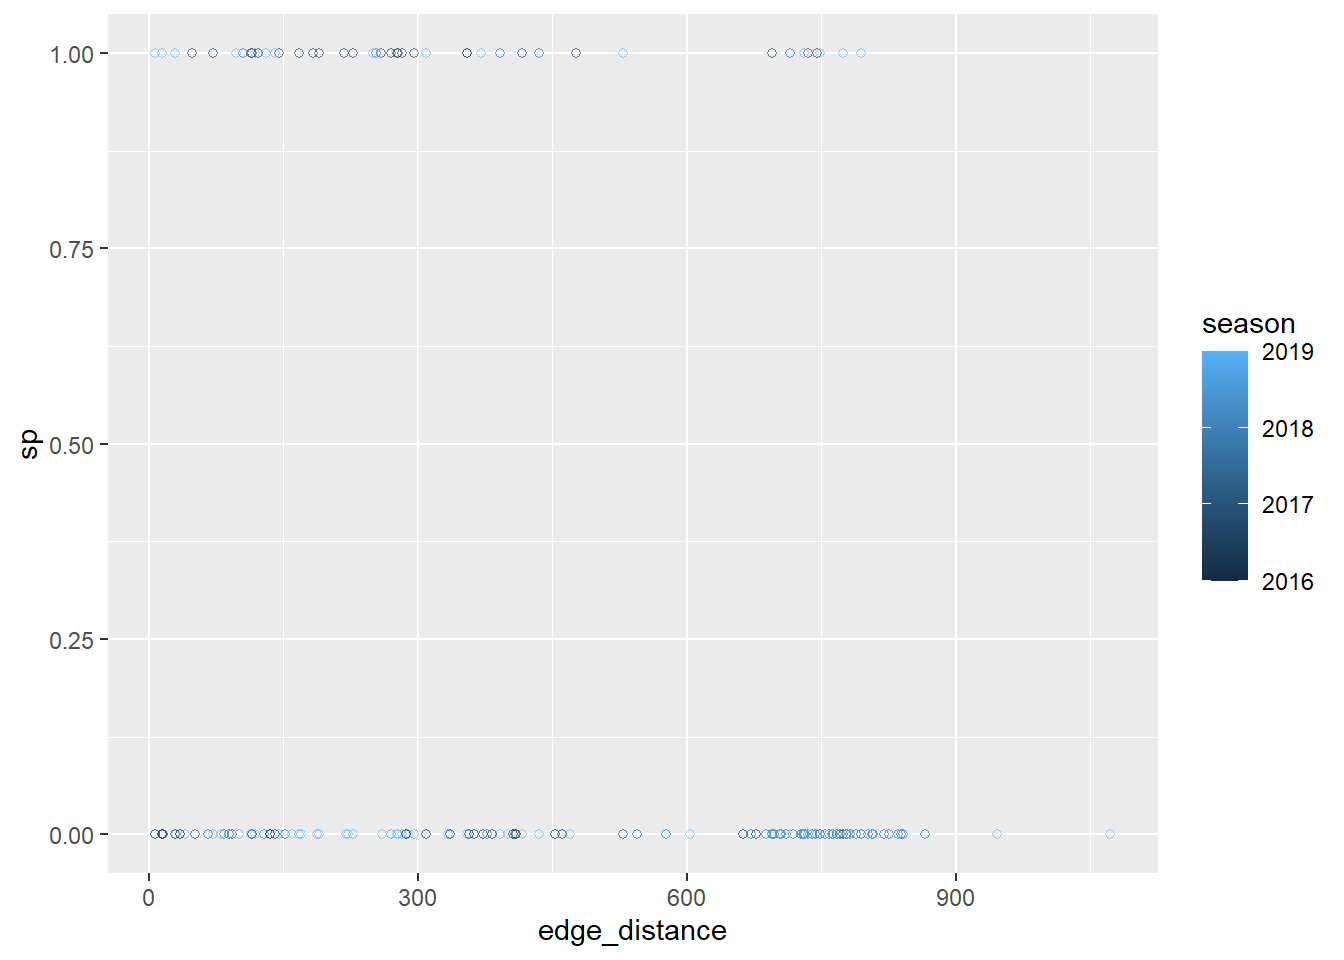
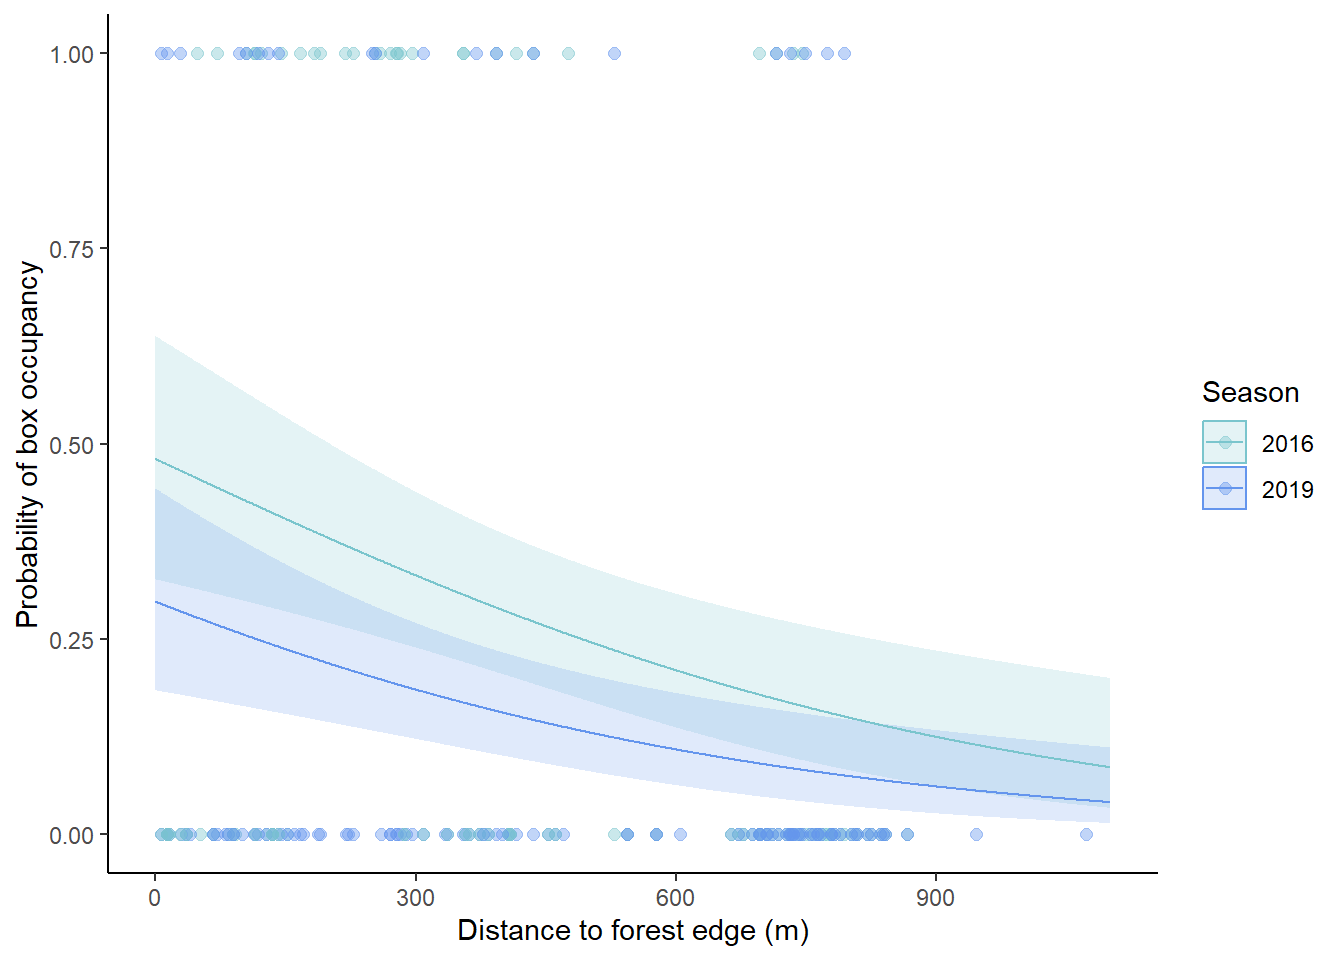
Rewrote code for model predictions for part h of problem 3, wrote and ran code to visualize predictions, and rendered.

diff --git a/code/Final.html b/code/Final.html
@@ -141,7 +141,7 @@ pre > code.sourceCode > span > a:first-child::before { text-decoration: underlin
 <span id="cb1-4"><a href="#cb1-4" aria-hidden="true" tabindex="-1"></a><span class="fu">library</span>(janitor) <span class="co"># cleaning data frames</span></span>
 <span id="cb1-5"><a href="#cb1-5" aria-hidden="true" tabindex="-1"></a><span class="fu">library</span>(DHARMa) <span class="co"># running model diagnostics</span></span>
 <span id="cb1-6"><a href="#cb1-6" aria-hidden="true" tabindex="-1"></a><span class="fu">library</span>(lubridate) <span class="co"># cleaning up dates</span></span>
-<span id="cb1-7"><a href="#cb1-7" aria-hidden="true" tabindex="-1"></a><span class="fu">library</span>(ggeffects) <span class="co"># additional ggplot features</span></span>
+<span id="cb1-7"><a href="#cb1-7" aria-hidden="true" tabindex="-1"></a><span class="fu">library</span>(ggeffects) <span class="co"># model predictions</span></span>
 <span id="cb1-8"><a href="#cb1-8" aria-hidden="true" tabindex="-1"></a></span>
 <span id="cb1-9"><a href="#cb1-9" aria-hidden="true" tabindex="-1"></a>sst <span class="ot">&lt;-</span> <span class="fu">read.csv</span>( <span class="co"># read in data</span></span>
 <span id="cb1-10"><a href="#cb1-10" aria-hidden="true" tabindex="-1"></a>  <span class="fu">here</span>(<span class="st">"data"</span>, <span class="st">"SST_update2023.csv"</span>)) <span class="co"># set file path</span></span>
@@ -207,11 +207,11 @@ pre > code.sourceCode > span > a:first-child::before { text-decoration: underlin
 <pre><code># A tibble: 5 × 3
   year  month mean_monthly_sst
   &lt;fct&gt; &lt;ord&gt;            &lt;dbl&gt;
-1 2019  Apr               13.7
-2 2018  Mar               13.5
-3 2019  Jan               14.7
-4 2023  Jul               16.3
-5 2019  Sep               18.8</code></pre>
+1 2020  May               14.6
+2 2023  Aug               18.5
+3 2020  Apr               14.3
+4 2018  Nov               17.9
+5 2021  Oct               16.6</code></pre>
 </div>
 <div class="sourceCode cell-code" id="cb4"><pre class="sourceCode r code-with-copy"><code class="sourceCode r"><span id="cb4-1"><a href="#cb4-1" aria-hidden="true" tabindex="-1"></a><span class="fu">str</span>(sst_clean) <span class="co"># display structure of sst_clean data frame</span></span></code><button title="Copy to Clipboard" class="code-copy-button"><i class="bi"></i></button></pre></div>
 <div class="cell-output cell-output-stdout">
@@ -319,20 +319,23 @@ pre > code.sourceCode > span > a:first-child::before { text-decoration: underlin
 <section id="e." class="level2">
 <h2 class="anchored" data-anchor-id="e.">e.</h2>
 <div class="cell">
-<div class="sourceCode cell-code" id="cb7"><pre class="sourceCode r code-with-copy"><code class="sourceCode r"><span id="cb7-1"><a href="#cb7-1" aria-hidden="true" tabindex="-1"></a>model0 <span class="ot">&lt;-</span> <span class="fu">glm</span>(sp <span class="sc">~</span> <span class="dv">1</span>, <span class="co"># creating new object of linear model with no predictors</span></span>
-<span id="cb7-2"><a href="#cb7-2" aria-hidden="true" tabindex="-1"></a>  <span class="at">data =</span> nest_boxes, <span class="co"># set data frame</span></span>
-<span id="cb7-3"><a href="#cb7-3" aria-hidden="true" tabindex="-1"></a>  <span class="at">family =</span> <span class="st">"binomial"</span>) <span class="co"># set distribution</span></span>
-<span id="cb7-4"><a href="#cb7-4" aria-hidden="true" tabindex="-1"></a>model1 <span class="ot">&lt;-</span> <span class="fu">glm</span>(sp <span class="sc">~</span> season <span class="sc">+</span> edge_distance, </span>
-<span id="cb7-5"><a href="#cb7-5" aria-hidden="true" tabindex="-1"></a>             <span class="co"># creating new object of linear model with both predictors</span></span>
-<span id="cb7-6"><a href="#cb7-6" aria-hidden="true" tabindex="-1"></a>  <span class="at">data =</span> nest_boxes, <span class="co"># set data frame</span></span>
-<span id="cb7-7"><a href="#cb7-7" aria-hidden="true" tabindex="-1"></a>  <span class="at">family =</span> <span class="st">"binomial"</span>) <span class="co"># set distribution</span></span>
-<span id="cb7-8"><a href="#cb7-8" aria-hidden="true" tabindex="-1"></a>model2 <span class="ot">&lt;-</span> <span class="fu">glm</span>(sp <span class="sc">~</span> season, <span class="co"># creating new object of linear model with season as predictor</span></span>
-<span id="cb7-9"><a href="#cb7-9" aria-hidden="true" tabindex="-1"></a>  <span class="at">data =</span> nest_boxes, <span class="co"># set data frame</span></span>
+<div class="sourceCode cell-code" id="cb7"><pre class="sourceCode r code-with-copy"><code class="sourceCode r"><span id="cb7-1"><a href="#cb7-1" aria-hidden="true" tabindex="-1"></a>nest_boxes_clean <span class="ot">&lt;-</span> nest_boxes <span class="sc">|&gt;</span>  <span class="co"># make new data frame from nest_boxes data frame</span></span>
+<span id="cb7-2"><a href="#cb7-2" aria-hidden="true" tabindex="-1"></a>  <span class="fu">mutate</span>(<span class="at">season =</span> <span class="fu">as_factor</span>(season), <span class="co"># make sure season is a factor</span></span>
+<span id="cb7-3"><a href="#cb7-3" aria-hidden="true" tabindex="-1"></a>         <span class="at">season =</span> <span class="fu">fct_relevel</span>(season, <span class="st">"2016"</span>, <span class="st">"2019"</span>)) <span class="co"># change factor levels</span></span>
+<span id="cb7-4"><a href="#cb7-4" aria-hidden="true" tabindex="-1"></a>model0 <span class="ot">&lt;-</span> <span class="fu">glm</span>(sp <span class="sc">~</span> <span class="dv">1</span>, <span class="co"># creating new object of linear model with no predictors</span></span>
+<span id="cb7-5"><a href="#cb7-5" aria-hidden="true" tabindex="-1"></a>  <span class="at">data =</span> nest_boxes_clean, <span class="co"># set data frame</span></span>
+<span id="cb7-6"><a href="#cb7-6" aria-hidden="true" tabindex="-1"></a>  <span class="at">family =</span> <span class="st">"binomial"</span>) <span class="co"># set distribution</span></span>
+<span id="cb7-7"><a href="#cb7-7" aria-hidden="true" tabindex="-1"></a>model1 <span class="ot">&lt;-</span> <span class="fu">glm</span>(sp <span class="sc">~</span> season <span class="sc">+</span> edge_distance, </span>
+<span id="cb7-8"><a href="#cb7-8" aria-hidden="true" tabindex="-1"></a>            <span class="co"># creating new object of linear model with both predictors</span></span>
+<span id="cb7-9"><a href="#cb7-9" aria-hidden="true" tabindex="-1"></a>  <span class="at">data =</span> nest_boxes_clean, <span class="co"># set data frame</span></span>
 <span id="cb7-10"><a href="#cb7-10" aria-hidden="true" tabindex="-1"></a>  <span class="at">family =</span> <span class="st">"binomial"</span>) <span class="co"># set distribution</span></span>
-<span id="cb7-11"><a href="#cb7-11" aria-hidden="true" tabindex="-1"></a>model3 <span class="ot">&lt;-</span> <span class="fu">glm</span>(sp <span class="sc">~</span> edge_distance, </span>
-<span id="cb7-12"><a href="#cb7-12" aria-hidden="true" tabindex="-1"></a>            <span class="co"># creating new object of linear model with distance to forest edge as predictor</span></span>
-<span id="cb7-13"><a href="#cb7-13" aria-hidden="true" tabindex="-1"></a>  <span class="at">data =</span> nest_boxes, <span class="co"># set data frame</span></span>
-<span id="cb7-14"><a href="#cb7-14" aria-hidden="true" tabindex="-1"></a>  <span class="at">family =</span> <span class="st">"binomial"</span>) <span class="co"># set distribution</span></span></code><button title="Copy to Clipboard" class="code-copy-button"><i class="bi"></i></button></pre></div>
+<span id="cb7-11"><a href="#cb7-11" aria-hidden="true" tabindex="-1"></a>model2 <span class="ot">&lt;-</span> <span class="fu">glm</span>(sp <span class="sc">~</span> season, <span class="co"># creating new object of linear model with season as predictor</span></span>
+<span id="cb7-12"><a href="#cb7-12" aria-hidden="true" tabindex="-1"></a>  <span class="at">data =</span> nest_boxes_clean, <span class="co"># set data frame</span></span>
+<span id="cb7-13"><a href="#cb7-13" aria-hidden="true" tabindex="-1"></a>  <span class="at">family =</span> <span class="st">"binomial"</span>) <span class="co"># set distribution</span></span>
+<span id="cb7-14"><a href="#cb7-14" aria-hidden="true" tabindex="-1"></a>model3 <span class="ot">&lt;-</span> <span class="fu">glm</span>(sp <span class="sc">~</span> edge_distance, </span>
+<span id="cb7-15"><a href="#cb7-15" aria-hidden="true" tabindex="-1"></a>          <span class="co"># creating new object of linear model with distance to forest edge as predictor</span></span>
+<span id="cb7-16"><a href="#cb7-16" aria-hidden="true" tabindex="-1"></a>  <span class="at">data =</span> nest_boxes_clean, <span class="co"># set data frame</span></span>
+<span id="cb7-17"><a href="#cb7-17" aria-hidden="true" tabindex="-1"></a>  <span class="at">family =</span> <span class="st">"binomial"</span>) <span class="co"># set distribution</span></span></code><button title="Copy to Clipboard" class="code-copy-button"><i class="bi"></i></button></pre></div>
 </div>
 </section>
 <section id="f." class="level2">
@@ -390,28 +393,42 @@ model0  1 238.8318</code></pre>
 <section id="h" class="level2">
 <h2 class="anchored" data-anchor-id="h">h</h2>
 <div class="cell">
-<div class="sourceCode cell-code" id="cb14"><pre class="sourceCode r code-with-copy"><code class="sourceCode r"><span id="cb14-1"><a href="#cb14-1" aria-hidden="true" tabindex="-1"></a>nest_boxes_clean <span class="ot">&lt;-</span> nest_boxes <span class="sc">|&gt;</span>  <span class="co"># make new data frame from nest_boxes data frame</span></span>
-<span id="cb14-2"><a href="#cb14-2" aria-hidden="true" tabindex="-1"></a>  <span class="fu">mutate</span>(<span class="at">season =</span> <span class="fu">as_factor</span>(season), <span class="co"># make sure season is a factor</span></span>
-<span id="cb14-3"><a href="#cb14-3" aria-hidden="true" tabindex="-1"></a>         <span class="at">season =</span> <span class="fu">fct_relevel</span>(season, <span class="st">"2016"</span>, <span class="st">"2018"</span>)) <span class="co"># change factor levels</span></span></code><button title="Copy to Clipboard" class="code-copy-button"><i class="bi"></i></button></pre></div>
-<div class="cell-output cell-output-stderr">
-<pre><code>Warning: There was 1 warning in `mutate()`.
-ℹ In argument: `season = fct_relevel(season, "2016", "2018")`.
-Caused by warning:
-! 1 unknown level in `f`: 2018</code></pre>
-</div>
-<div class="sourceCode cell-code" id="cb16"><pre class="sourceCode r code-with-copy"><code class="sourceCode r"><span id="cb16-1"><a href="#cb16-1" aria-hidden="true" tabindex="-1"></a>plot2 <span class="ot">&lt;-</span> <span class="fu">ggplot</span>(<span class="at">data =</span> nest_boxes, <span class="co"># make new object by plotting nest_boxes</span></span>
-<span id="cb16-2"><a href="#cb16-2" aria-hidden="true" tabindex="-1"></a>       <span class="fu">aes</span>(<span class="at">x =</span> edge_distance, <span class="co"># set x-axis</span></span>
-<span id="cb16-3"><a href="#cb16-3" aria-hidden="true" tabindex="-1"></a>           <span class="at">y =</span> sp, <span class="co"># set y-axis</span></span>
-<span id="cb16-4"><a href="#cb16-4" aria-hidden="true" tabindex="-1"></a>           <span class="at">color =</span> season)) <span class="sc">+</span> <span class="co"># color by season</span></span>
-<span id="cb16-5"><a href="#cb16-5" aria-hidden="true" tabindex="-1"></a>  <span class="fu">geom_point</span>(<span class="at">width =</span> <span class="fl">0.1</span>, <span class="co"># jitter underlying data as points and set width</span></span>
-<span id="cb16-6"><a href="#cb16-6" aria-hidden="true" tabindex="-1"></a>              <span class="at">height =</span> <span class="dv">0</span>, <span class="co"># set height</span></span>
-<span id="cb16-7"><a href="#cb16-7" aria-hidden="true" tabindex="-1"></a>              <span class="at">shape =</span> <span class="dv">21</span>, <span class="co"># make points open circles</span></span>
-<span id="cb16-8"><a href="#cb16-8" aria-hidden="true" tabindex="-1"></a>              <span class="at">alpha =</span> <span class="fl">0.6</span>)  <span class="co"># make points transparent</span></span></code><button title="Copy to Clipboard" class="code-copy-button"><i class="bi"></i></button></pre></div>
-<div class="cell-output cell-output-stderr">
-<pre><code>Warning in geom_point(width = 0.1, height = 0, shape = 21, alpha = 0.6):
-Ignoring unknown parameters: `width` and `height`</code></pre>
-</div>
-<div class="sourceCode cell-code" id="cb18"><pre class="sourceCode r code-with-copy"><code class="sourceCode r"><span id="cb18-1"><a href="#cb18-1" aria-hidden="true" tabindex="-1"></a>plot2  </span></code><button title="Copy to Clipboard" class="code-copy-button"><i class="bi"></i></button></pre></div>
+<div class="sourceCode cell-code" id="cb14"><pre class="sourceCode r code-with-copy"><code class="sourceCode r"><span id="cb14-1"><a href="#cb14-1" aria-hidden="true" tabindex="-1"></a>model1_pred <span class="ot">&lt;-</span> <span class="fu">ggpredict</span>(model1, <span class="co"># generate predictions based off of model1</span></span>
+<span id="cb14-2"><a href="#cb14-2" aria-hidden="true" tabindex="-1"></a>                         <span class="at">terms =</span> <span class="fu">c</span>(<span class="st">"edge_distance [0:1100 by = 1]"</span>, <span class="st">"season"</span>)) </span>
+<span id="cb14-3"><a href="#cb14-3" aria-hidden="true" tabindex="-1"></a></span>
+<span id="cb14-4"><a href="#cb14-4" aria-hidden="true" tabindex="-1"></a><span class="fu">ggplot</span>(nest_boxes_clean, <span class="co"># plot with nest_boxes_clean data frame</span></span>
+<span id="cb14-5"><a href="#cb14-5" aria-hidden="true" tabindex="-1"></a>       <span class="fu">aes</span>(<span class="at">x =</span> edge_distance, <span class="co"># set x-axis</span></span>
+<span id="cb14-6"><a href="#cb14-6" aria-hidden="true" tabindex="-1"></a>           <span class="at">y =</span> sp, <span class="co"># set y-axis</span></span>
+<span id="cb14-7"><a href="#cb14-7" aria-hidden="true" tabindex="-1"></a>           <span class="at">group =</span> group, <span class="co"># group by season</span></span>
+<span id="cb14-8"><a href="#cb14-8" aria-hidden="true" tabindex="-1"></a>           <span class="at">color =</span> group, <span class="co"># color by season</span></span>
+<span id="cb14-9"><a href="#cb14-9" aria-hidden="true" tabindex="-1"></a>           <span class="at">fill =</span> group)) <span class="sc">+</span> <span class="co"># fill by season</span></span>
+<span id="cb14-10"><a href="#cb14-10" aria-hidden="true" tabindex="-1"></a>  <span class="fu">geom_ribbon</span>(<span class="at">data =</span> model1_pred, </span>
+<span id="cb14-11"><a href="#cb14-11" aria-hidden="true" tabindex="-1"></a>              <span class="co"># plot confidence interval ribbons based off of model predictions</span></span>
+<span id="cb14-12"><a href="#cb14-12" aria-hidden="true" tabindex="-1"></a>              <span class="fu">aes</span>(<span class="at">x =</span> x, <span class="co"># set x axis</span></span>
+<span id="cb14-13"><a href="#cb14-13" aria-hidden="true" tabindex="-1"></a>                  <span class="at">y =</span> predicted, <span class="co"># set y axis</span></span>
+<span id="cb14-14"><a href="#cb14-14" aria-hidden="true" tabindex="-1"></a>                  <span class="at">ymin =</span> conf.low, <span class="co"># set upper bound of confidence interval</span></span>
+<span id="cb14-15"><a href="#cb14-15" aria-hidden="true" tabindex="-1"></a>                  <span class="at">ymax =</span> conf.high, <span class="co"># set lower bound of confidence interval</span></span>
+<span id="cb14-16"><a href="#cb14-16" aria-hidden="true" tabindex="-1"></a>                  <span class="at">color =</span> <span class="cn">NULL</span>), <span class="co"># remove ribbon outline</span></span>
+<span id="cb14-17"><a href="#cb14-17" aria-hidden="true" tabindex="-1"></a>              <span class="at">alpha =</span> <span class="fl">0.2</span>) <span class="sc">+</span> <span class="co"># make ribbons transparent</span></span>
+<span id="cb14-18"><a href="#cb14-18" aria-hidden="true" tabindex="-1"></a>  <span class="fu">geom_line</span>(<span class="at">data =</span> model1_pred, <span class="co"># plot line based off of model predictions</span></span>
+<span id="cb14-19"><a href="#cb14-19" aria-hidden="true" tabindex="-1"></a>            <span class="fu">aes</span>(<span class="at">x =</span> x, <span class="co"># set x axis</span></span>
+<span id="cb14-20"><a href="#cb14-20" aria-hidden="true" tabindex="-1"></a>                <span class="at">y =</span> predicted)) <span class="sc">+</span> <span class="co"># set y axis</span></span>
+<span id="cb14-21"><a href="#cb14-21" aria-hidden="true" tabindex="-1"></a>  <span class="fu">geom_point</span>(<span class="at">data =</span> nest_boxes_clean, <span class="co"># plot underlying data</span></span>
+<span id="cb14-22"><a href="#cb14-22" aria-hidden="true" tabindex="-1"></a>             <span class="fu">aes</span>(<span class="at">x =</span> edge_distance, <span class="co"># set x axis</span></span>
+<span id="cb14-23"><a href="#cb14-23" aria-hidden="true" tabindex="-1"></a>                 <span class="at">y =</span> sp, <span class="co"># set y axis</span></span>
+<span id="cb14-24"><a href="#cb14-24" aria-hidden="true" tabindex="-1"></a>                 <span class="at">group =</span> season, <span class="co"># group by season</span></span>
+<span id="cb14-25"><a href="#cb14-25" aria-hidden="true" tabindex="-1"></a>                 <span class="at">color =</span> season, <span class="co"># color by season</span></span>
+<span id="cb14-26"><a href="#cb14-26" aria-hidden="true" tabindex="-1"></a>                 <span class="at">fill =</span> season), <span class="co"># fill by season</span></span>
+<span id="cb14-27"><a href="#cb14-27" aria-hidden="true" tabindex="-1"></a>             <span class="at">size =</span> <span class="dv">2</span>, <span class="co"># set size </span></span>
+<span id="cb14-28"><a href="#cb14-28" aria-hidden="true" tabindex="-1"></a>             <span class="at">shape =</span> <span class="dv">21</span>, <span class="co"># set shape</span></span>
+<span id="cb14-29"><a href="#cb14-29" aria-hidden="true" tabindex="-1"></a>             <span class="at">alpha =</span> <span class="fl">0.4</span>) <span class="sc">+</span> <span class="co"># make points transparent</span></span>
+<span id="cb14-30"><a href="#cb14-30" aria-hidden="true" tabindex="-1"></a>  <span class="fu">theme_classic</span>() <span class="sc">+</span> <span class="co"># change theme to remove gridlines</span></span>
+<span id="cb14-31"><a href="#cb14-31" aria-hidden="true" tabindex="-1"></a>  <span class="fu">scale_fill_manual</span>(<span class="at">values =</span> <span class="fu">c</span>(<span class="st">"cadetblue3"</span>, <span class="st">"cornflowerblue"</span>)) <span class="sc">+</span> <span class="co"># set fill colors</span></span>
+<span id="cb14-32"><a href="#cb14-32" aria-hidden="true" tabindex="-1"></a>  <span class="fu">scale_color_manual</span>(<span class="at">values =</span> <span class="fu">c</span>(<span class="st">"cadetblue3"</span>, <span class="st">"cornflowerblue"</span>)) <span class="sc">+</span> <span class="co"># set outline colors</span></span>
+<span id="cb14-33"><a href="#cb14-33" aria-hidden="true" tabindex="-1"></a>  <span class="fu">labs</span>(<span class="at">x =</span> <span class="st">"Distance to forest edge (m)"</span>, <span class="co"># set x axis label</span></span>
+<span id="cb14-34"><a href="#cb14-34" aria-hidden="true" tabindex="-1"></a>       <span class="at">y =</span> <span class="st">"Probability of box occupancy"</span>, <span class="co"># set y axis label</span></span>
+<span id="cb14-35"><a href="#cb14-35" aria-hidden="true" tabindex="-1"></a>       <span class="at">color =</span> <span class="st">"Season"</span>, <span class="co"># rename legend</span></span>
+<span id="cb14-36"><a href="#cb14-36" aria-hidden="true" tabindex="-1"></a>       <span class="at">fill =</span> <span class="st">"Season"</span>) <span class="co"># rename legend</span></span></code><button title="Copy to Clipboard" class="code-copy-button"><i class="bi"></i></button></pre></div>
 <div class="cell-output-display">
 <div>
 <figure class="figure">
